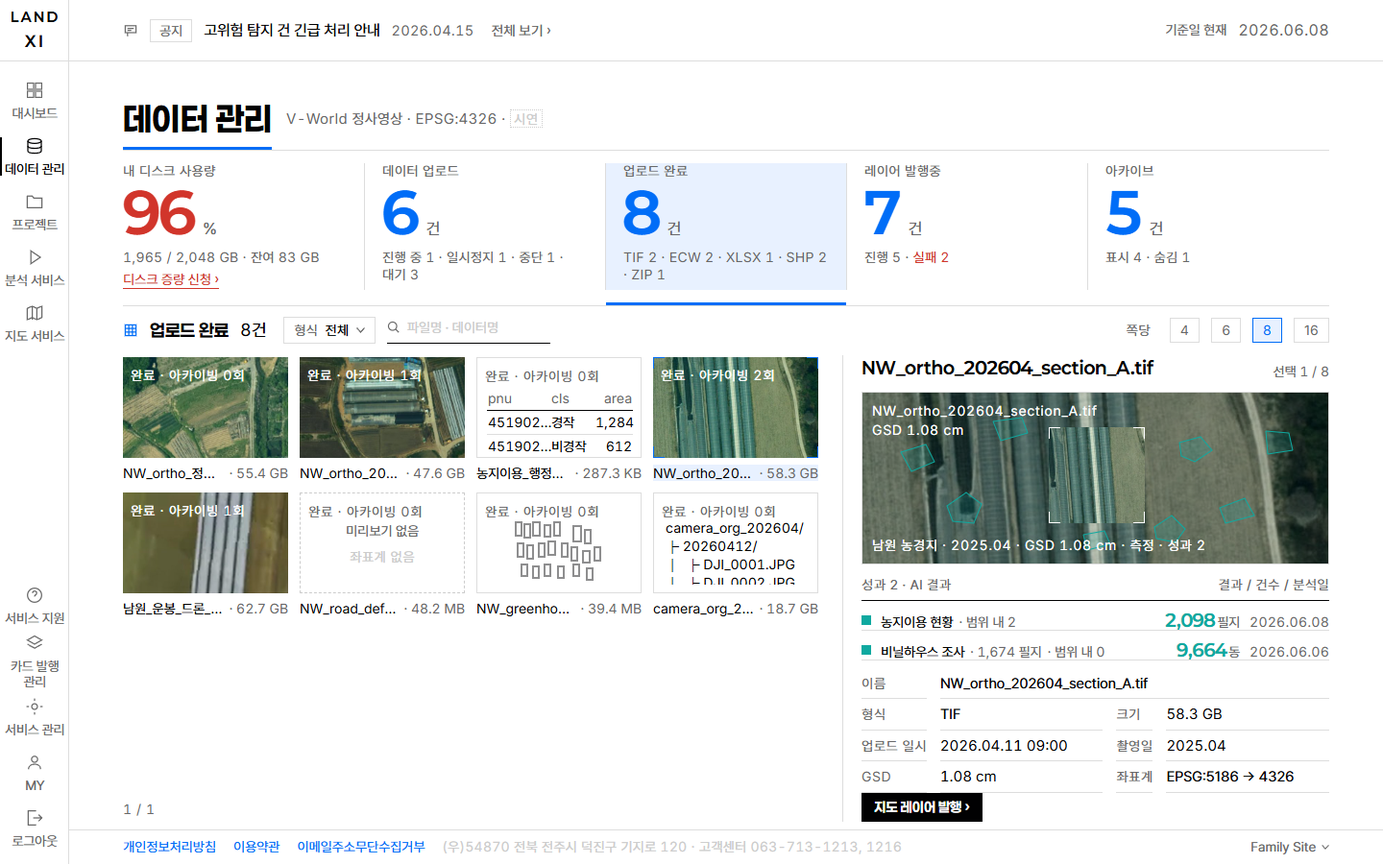
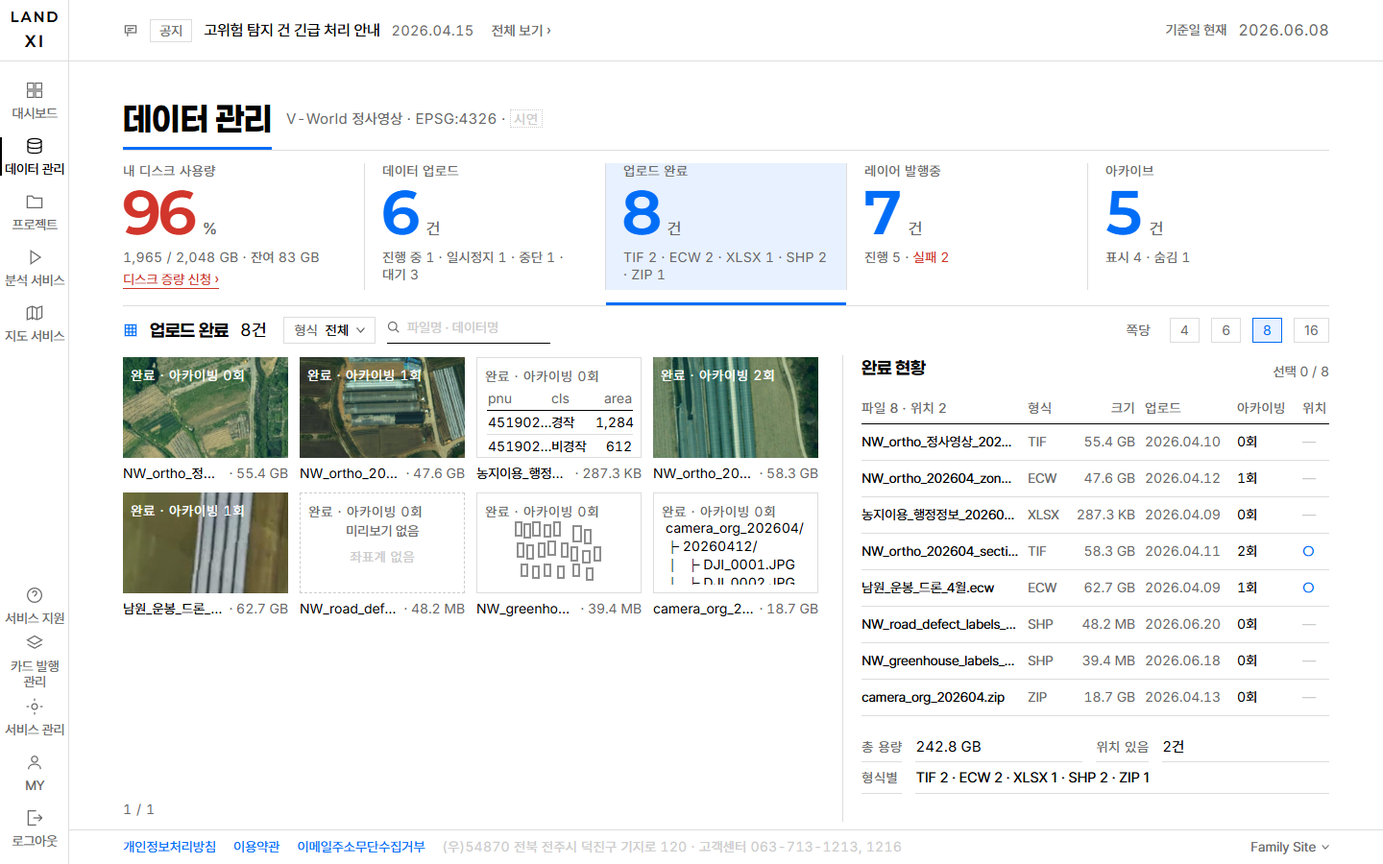
feat(dataset): 3차 피드백 — 우 패널 통일(4단계 현황판 / 상세 + ‹ 현황) · 쪽당 16 반응 수정
- 선택 없음 = 단계 현황판(4단계 같은 문법): 제목 진행·완료·발행·보관 현황 · 헤더 · 한 줄 = 한 건 38px 헤어라인(클릭 = 그 타일 선택, 다른 쪽이면 이동) · 아래 요약 kv
  업로드 이름·상태·막대%·크기·잔여 / 완료 이름·형식·크기·업로드·아카이빙·위치○ / 발행중 이름·4눈금·상태(실패 warn)·진행률·크기 / 아카이브 이름·유형·표시·발행 v·크기
- 선택 = 상세 그대로 + 헤더 `‹ 현황`(현황판으로) · 선택 타일 재클릭·Esc 도 같다 · 점선 액자 빈 상태·아카이브 유형 dl 삭제
- 쪽당 16 버그(클라이언트 "반응이 안 되네"): 높이 상한만 두어 8건·큰 화면에서 8 과 같아 보였다 → 타일 높이 = 그리드 ÷ 4 고정 + 폭도 1.63:1 로(1440: 172×105 → 117×72)
- 마스터 B5-DataMgmt 12.3(완료 현황판) + 렌더 · NOTES §13.9 · parity §11.7 · e2e 18(단계 4 × 현황판·줄 클릭·‹ 현황·쪽당 16) · shoot b5-01..18

Claude-Session: https://claude.ai/code/session_01WM9MJXSpdbCfwY8af3obk9

Changed region(s): [[0.625, 0.4044, 0.9688, 0.9644]]

diff --git a/design-canvas/v2/B5-DataMgmt.dc.html b/design-canvas/v2/B5-DataMgmt.dc.html
@@ -16,7 +16,7 @@
 body{margin:0;background:#FFFFFF;color:#010102;font-family:'Pretendard','Paperlogy',system-ui,sans-serif;font-weight:400;font-size:18px;line-height:1.6;-webkit-font-smoothing:antialiased}
 .d{font-family:'Paperlogy','Pretendard',system-ui,sans-serif;font-weight:700;letter-spacing:-.01em}
 .n{font-family:'Inter','Pretendard',system-ui,sans-serif;font-weight:400;font-variant-numeric:tabular-nums;font-feature-settings:'tnum' 1}
-/* B5-DataMgmt 12.2 — 발주 2차(2026-08-27): 쪽당 4 · 6 · 8 · 16 + 페이저 · 완료 선택 = 실제 위치(판 180, 청록 결과) + 성과 2 + 기본 정보 4행 · 액션 826. 12.1: 판 220 · 정보 640 · 액션 812 · XLSX 3열. 대시보드 골격 + 단계 뷰(좌 타일 그리드 8 = 4열 / 우 패널). */
+/* B5-DataMgmt 12.3 — 발주 3차(2026-08-27) "통일성": 우 패널은 4단계 같은 문법 — 선택 없음 = 단계 현황판(한 줄 = 한 건 38px 헤어라인 + 요약 kv), 선택 = 그 건의 상세 + `‹ 현황`. 이 판 = 완료 단계 · 선택 없음 = `완료 현황`(이름 · 형식 · 크기 · 업로드 · 아카이빙 · 위치) + 총 용량 · 위치 있음 · 형식별. 선택 상세(판 180 + 성과 2 + dl)는 12.2 와 같다(그림 shots/proto-ds/b5-07). 12.2: 쪽당 4 · 6 · 8 · 16 + 페이저 · 완료 선택 = 실제 위치(판 180, 청록 결과) + 성과 2. 대시보드 골격 + 단계 뷰(좌 타일 그리드 8 = 4열 / 우 패널). */
 .ab{position:absolute}
 .k{position:absolute;top:170px;height:132px;padding:0 18px;border-left:1px solid #DDDDDD}
 .k .kl{display:block;font-size:14px;letter-spacing:.04em;color:#686868;white-space:nowrap;line-height:17px}
@@ -53,6 +53,13 @@ body{margin:0;background:#FFFFFF;color:#010102;font-family:'Pretendard','Paperlo
 .rs .nv{white-space:nowrap}.rs .nv b{font-family:'Paperlogy';font-weight:700;font-size:18px;color:#0FA9A0;letter-spacing:-.01em}.rs .nv span{color:#686868;margin-left:2px}
 .rs .at{color:#686868;letter-spacing:.02em}
 .ph{position:absolute;left:897px;width:487px;height:28px;display:flex;justify-content:space-between;align-items:baseline;border-bottom:1px solid #010102;font-size:14px;letter-spacing:.04em;color:#686868}
+/* 현황판 — 4단계 공용 문법. 한 줄 = 한 건 38px 헤어라인. 완료 열: 이름 · 형식 · 크기 · 업로드 · 아카이빙 · 위치(○ = 도엽 실측 위치) */
+.pbh,.pb{position:absolute;left:897px;width:487px;display:grid;grid-template-columns:minmax(0,1fr) 40px 62px 86px 58px 28px;column-gap:10px;align-items:center;font-size:14px;letter-spacing:-.01em;color:#010102}
+.pbh{height:28px;align-items:baseline;border-bottom:1px solid #010102;letter-spacing:.04em;color:#686868;white-space:nowrap}
+.pb{height:38px;border-bottom:1px solid #DDDDDD}
+.pb>*{min-width:0;white-space:nowrap;overflow:hidden;text-overflow:ellipsis}
+.pb .stw,.pb .dt{color:#686868}.pb .rt,.pbh .rt{text-align:right}.pb .rt{color:#686868}
+.pb .loc{color:#CCCCCC}.pb .loc.on{color:#006DF7}
 .rl{position:relative;width:72px;height:58px;display:flex;flex-direction:column;align-items:center;justify-content:center;gap:6px;color:#686868}
 .rl div{font-size:14px;line-height:1.15;letter-spacing:-.02em;text-align:center;white-space:pre-line}
 </style></helmet>
@@ -119,7 +126,7 @@ body{margin:0;background:#FFFFFF;color:#010102;font-family:'Pretendard','Paperlo
 <div class="tile" style="left:312px;top:372px"><div class="th"><img src="tile-done-ecw.jpg"><span class="word n">완료 · 아카이빙 1회</span></div><p class="cap n"><span class="nm">NW_ortho_202604_zone_X.ecw</span><span class="mt">· 47.6 GB</span></p></div>
 <div class="tile" style="left:496px;top:372px"><div class="th box"><span class="word n">완료 · 아카이빙 0회</span>
   <table class="n" style="position:absolute;left:10px;top:30px;right:10px;border-collapse:collapse;font-size:14px;line-height:22px;white-space:nowrap;table-layout:fixed;width:152px"><tr style="color:#686868;border-bottom:1px solid #010102"><td style="width:66px">pnu</td><td style="width:46px">cls</td><td style="text-align:right">area</td></tr><tr style="border-bottom:1px solid #DDDDDD"><td>451902…</td><td>경작</td><td style="text-align:right">1,284</td></tr><tr><td>451902…</td><td>비경작</td><td style="text-align:right">612</td></tr></table></div><p class="cap n"><span class="nm">농지이용_행정정보_202604.xlsx</span><span class="mt">· 287.3 KB</span></p></div>
-<div class="tile" style="left:680px;top:372px"><div class="th" style="outline:1px solid #006DF7;outline-offset:-1px"><img src="tile-gh-clean.jpg"><span class="word n">완료 · 아카이빙 2회</span><i class="bk tl"></i><i class="bk tr"></i><i class="bk bl"></i><i class="bk br"></i></div><p class="cap n" style="background:#E8F1FF"><span class="nm">NW_ortho_202604_section_A.tif</span><span class="mt">· 58.3 GB</span></p></div>
+<div class="tile" style="left:680px;top:372px"><div class="th"><img src="tile-gh-clean.jpg"><span class="word n">완료 · 아카이빙 2회</span></div><p class="cap n"><span class="nm">NW_ortho_202604_section_A.tif</span><span class="mt">· 58.3 GB</span></p></div>
 <div class="tile" style="left:128px;top:513px"><div class="th"><img src="tile-done-2.jpg"><span class="word n">완료 · 아카이빙 1회</span></div><p class="cap n"><span class="nm">남원_운봉_드론_4월.ecw</span><span class="mt">· 62.7 GB</span></p></div>
 <div class="tile" style="left:312px;top:513px"><div class="th dash" style="display:flex;flex-direction:column;align-items:center;justify-content:center;gap:5px;padding:22px 10px 20px"><span class="word n">완료 · 아카이빙 0회</span><span style="font-size:14px;color:#686868">미리보기 없음</span><span class="n" style="font-size:14px;color:#CCCCCC;letter-spacing:.04em">좌표계 없음</span></div><p class="cap n"><span class="nm">NW_road_defect_labels_202604.shp</span><span class="mt">· 48.2 MB</span></p></div>
 <div class="tile" style="left:496px;top:513px"><div class="th box"><span class="word n">완료 · 아카이빙 0회</span>
@@ -135,29 +142,24 @@ body{margin:0;background:#FFFFFF;color:#010102;font-family:'Pretendard','Paperlo
 <!-- 세로 헤어라인 -->
 <div class="ab" style="left:877px;top:370px;width:1px;height:486px;background:#DDDDDD"></div>
 
-<!-- ── 우 패널 — 선택 타일: 실제 위치(판 180 = V-World + 도엽 타일 + 실측 브래킷 + 청록 결과) + 성과 2(results.js 실측치) + 기본 정보 4행 + 액션. 실화면은 아카이빙·등록자·범위 행이 더 있고 스크롤 ── -->
-<div class="ab d" style="left:897px;top:370px;width:400px;font-size:18px;line-height:26px;white-space:nowrap;overflow:hidden;text-overflow:ellipsis">NW_ortho_202604_section_A.tif</div>
-<div class="ab n" style="left:1320px;top:376px;width:64px;text-align:right;font-size:14px;color:#686868">선택 1 / 8</div>
-<div class="ab" style="left:897px;top:408px;width:487px;height:180px;background:#010102;border:1px solid #DDDDDD;overflow:hidden">
-  <img src="ds-ortho2.jpg" style="position:absolute;left:0;top:0;width:100%;height:100%;object-fit:cover;filter:saturate(.5) contrast(1.1) brightness(.85)">
-  <img src="tile-gh-clean.jpg" style="position:absolute;left:194px;top:36px;width:100px;height:100px;object-fit:cover;filter:saturate(.7)">
-  <!-- 청록 = AI 결과(농지이용 · 비닐하우스 폴리곤) — 도엽을 가운데 두고 3배 범위 -->
-  <svg width="487" height="180" viewBox="0 0 487 180" style="position:absolute;left:0;top:0" fill="#0FA9A0" fill-opacity=".18" stroke="#0FA9A0" stroke-width="1"><path d="M40 62l26-8 9 18-24 10z"/><path d="M88 118l20-14 16 12-8 20-22-2z"/><path d="M136 30l30-4 6 16-28 8z"/><path d="M330 52l22-6 12 14-18 12-14-6z"/><path d="M372 120l26-10 10 18-30 8z"/><path d="M420 40l24 2 4 18-26 4z"/><path d="M304 140l18-12 14 14-10 14-20-4z"/><path d="M230 148l22-4 6 14-24 6z"/></svg>
-  <div class="ab" style="left:194px;top:36px;width:100px;height:100px"><i class="bk tl bkw"></i><i class="bk tr bkw"></i><i class="bk bl bkw"></i><i class="bk br bkw"></i></div>
-  <div class="n" style="position:absolute;left:10px;top:9px;font-size:14px;letter-spacing:.05em;color:#fff;line-height:1.4">NW_ortho_202604_section_A.tif<br>GSD 1.08 cm</div>
-  <div class="n" style="position:absolute;left:10px;bottom:8px;font-size:14px;letter-spacing:.05em;color:#fff">남원 농경지 · 2025.04 · GSD 1.08 cm · 측정 · 성과 2</div>
-</div>
-<!-- 성과 2 — results.js: 농지이용 2,098 필지(2026.06.08) · 비닐하우스 9,664 동 / 1,674 필지(2026.06.06). 범위 안 건수는 GeoJSON 을 세어 적는다 -->
-<div class="ph" style="top:598px"><span>성과 2 · AI 결과</span><span>결과 / 건수 / 분석일</span></div>
-<div class="rs" style="top:626px"><span class="sw"></span><span class="nm">농지이용 현황<small class="n">· 범위 내 2</small></span><span class="nv n"><b>2,098</b><span>필지</span></span><span class="at n">2026.06.08</span></div>
-<div class="rs" style="top:657px"><span class="sw"></span><span class="nm">비닐하우스 조사<small class="n">· 1,674 필지</small><small class="n">· 범위 내 0</small></span><span class="nv n"><b>9,664</b><span>동</span></span><span class="at n">2026.06.06</span></div>
-<dl class="info" style="top:696px;margin:0">
-  <dt class="w">이름</dt><dd class="w">NW_ortho_202604_section_A.tif</dd>
-  <dt>형식</dt><dd>TIF</dd><dt>크기</dt><dd class="n">58.3 GB</dd>
-  <dt>업로드 일시</dt><dd class="n">2026.04.11 09:00</dd><dt>촬영일</dt><dd class="n">2025.04</dd>
-  <dt>GSD</dt><dd class="n">1.08 cm</dd><dt>좌표계</dt><dd>EPSG:5186 → 4326</dd>
+<!-- ── 우 패널 — 선택 없음 = 완료 현황판(4단계 공용 문법 · B5-DataMgmt-Upload 의 진행 현황판과 같은 줄 높이 38 · 헤더 · 요약 kv).
+     한 줄 = 한 건: 이름 · 형식 · 크기 · 업로드 · 아카이빙 · 위치(○ = imagery.js 도엽 실측 위치 d4 · d5). 줄 클릭 = 그 타일 선택 → 상세(판 180 + 성과 2 + dl + `지도 레이어 발행 ›`, 헤더에 `‹ 현황`) — 12.2 판과 같다 ── -->
+<div class="ab d" style="left:897px;top:370px;width:400px;font-size:18px;line-height:26px">완료 현황</div>
+<div class="ab n" style="left:1320px;top:376px;width:64px;text-align:right;font-size:14px;color:#686868">선택 0 / 8</div>
+<div class="pbh" style="top:414px"><span>파일 8 · 위치 2</span><span>형식</span><span class="rt">크기</span><span>업로드</span><span>아카이빙</span><span>위치</span></div>
+<div class="pb" style="top:442px"><span class="nm">NW_ortho_정사영상_202604_section_C_v3.tif</span><span class="stw">TIF</span><span class="rt n">55.4 GB</span><span class="dt n">2026.04.10</span><span class="n">0회</span><span class="loc n">—</span></div>
+<div class="pb" style="top:480px"><span class="nm">NW_ortho_202604_zone_X.ecw</span><span class="stw">ECW</span><span class="rt n">47.6 GB</span><span class="dt n">2026.04.12</span><span class="n">1회</span><span class="loc n">—</span></div>
+<div class="pb" style="top:518px"><span class="nm">농지이용_행정정보_202604.xlsx</span><span class="stw">XLSX</span><span class="rt n">287.3 KB</span><span class="dt n">2026.04.09</span><span class="n">0회</span><span class="loc n">—</span></div>
+<div class="pb" style="top:556px"><span class="nm">NW_ortho_202604_section_A.tif</span><span class="stw">TIF</span><span class="rt n">58.3 GB</span><span class="dt n">2026.04.11</span><span class="n">2회</span><span class="loc on n">○</span></div>
+<div class="pb" style="top:594px"><span class="nm">남원_운봉_드론_4월.ecw</span><span class="stw">ECW</span><span class="rt n">62.7 GB</span><span class="dt n">2026.04.09</span><span class="n">1회</span><span class="loc on n">○</span></div>
+<div class="pb" style="top:632px"><span class="nm">NW_road_defect_labels_202604.shp</span><span class="stw">SHP</span><span class="rt n">48.2 MB</span><span class="dt n">2026.06.20</span><span class="n">0회</span><span class="loc n">—</span></div>
+<div class="pb" style="top:670px"><span class="nm">NW_greenhouse_labels_202603.shp</span><span class="stw">SHP</span><span class="rt n">39.4 MB</span><span class="dt n">2026.06.18</span><span class="n">0회</span><span class="loc n">—</span></div>
+<div class="pb" style="top:708px"><span class="nm">camera_org_202604.zip</span><span class="stw">ZIP</span><span class="rt n">18.7 GB</span><span class="dt n">2026.04.13</span><span class="n">0회</span><span class="loc n">—</span></div>
+<!-- 요약 kv — 총 용량(8건 합) · 위치 있음(도엽 2) · 형식별(KPI 카드의 분해와 같은 수) -->
+<dl class="info" style="top:762px;margin:0">
+  <dt>총 용량</dt><dd class="n">242.8 GB</dd><dt>위치 있음</dt><dd class="n">2건</dd>
+  <dt class="w">형식별</dt><dd class="w">TIF 2 · ECW 2 · XLSX 1 · SHP 2 · ZIP 1</dd>
 </dl>
-<div class="ab" style="left:897px;top:826px;display:flex;gap:1px"><span class="act pri">지도 레이어 발행 ›</span></div>
 
 <!-- ── 푸터 36 ── -->
 <div class="ab" style="left:72px;top:864px;width:1368px;height:36px;border-top:1px solid #DDDDDD;display:flex;align-items:center;gap:18px;padding:0 56px;font-size:14px;color:#686868;white-space:nowrap">

diff --git a/landxi/proto/dataset.js b/landxi/proto/dataset.js
@@ -479,9 +479,7 @@ function editGeo(a) {
 $('#grid').addEventListener('click', (ev) => {
   const th = ev.target.closest('[data-open]'); if (!th) return;
   const id = th.dataset.open;
-  S.sel = S.sel === id ? null : id;
-  S.mode = S.sel ? 'tile' : 'none'; S.more = false;
-  renderPanel(); renderSide();
+  if (S.sel === id) backToBoard(); else selectTile(id);   // 선택 타일을 다시 누르면 현황판으로
 });
 
 /* ══ 우 패널 — 선택 타일을 펼친다: 판(지도/그림) + 기본 정보 + 액션 ═══════ */
@@ -502,16 +500,65 @@ function showFig(html) { $('#plate-wrap').hidden = true; const f = $('#fig-wrap'
 function showPlate() { $('#fig-wrap').hidden = true; $('#plate-wrap').hidden = false; }
 function hideFrames() { $('#plate-wrap').hidden = true; const f = $('#fig-wrap'); f.hidden = true; f.innerHTML = ''; }
 
-/* ── 진행 현황판(업로드 · 선택 없음) — 한 줄 = 한 건. 이름 · 상태어 · 막대 % · 크기 · 잔여. 발주 2차. ── */
+/* ── 현황판(선택 없음) — 4단계 공용 문법(발주 3차 "통일성"): 한 줄 = 한 건, 헤어라인, 줄 = 그 타일 선택. 아래 단계 요약 kv.
+   업로드: 이름 · 상태어 · 막대 % · 크기 · 잔여 / 완료: 이름 · 형식 · 크기 · 업로드 일시 · 아카이빙 · 위치 /
+   발행중: 이름 · 4눈금 · 상태어(실패 warn + 짧은 사유) · 진행률 · 크기 / 아카이브: 이름 · 유형 · 표시/숨김 · 발행 v · 크기. ── */
+const BOARD_TITLE = { upload: '진행 현황', manage: '완료 현황', publishing: '발행 현황', archive: '보관 현황' };
 const remain = (u) => fmtBytes(bytesOf(u.size) * (1 - u.pct / 100));
+const sumBytes = (rows) => fmtBytes(rows.reduce((s, r) => s + bytesOf(r.size), 0));
+const bh = (cells) => `<div class="pbh">${cells.map((c) => `<span class="lb${/^(크기|잔여|진행률|발행)$/.test(c) ? ' rt' : ''}">${esc(c)}</span>`).join('')}</div>`;
+const bRow = (r, st, cells) => `<div class="pb" data-id="${r.id}"${st ? ` data-st="${st}"` : ''} role="button" tabindex="0"${selAttr(r.id)}>${cells}</div>`;
+const bName = (name) => `<span class="nm" title="${esc(name)}">${esc(name)}</span>`;
 function boardHtml() {
-  const c = by(S.ups, (u) => u.st);
-  const head = `<div class="pbh"><span class="lb">파일 ${S.ups.length} · 진행 중 ${c.run || 0}</span><span class="lb">상태</span><span class="lb">진행률</span><span class="lb sz">크기</span><span class="lb rm">잔여</span></div>`;
-  return head + S.ups.map((u) => `<div class="pb" data-id="${u.id}" data-st="${u.st}">
-    <span class="nm" title="${esc(u.file)}">${esc(u.file)}</span><span class="stw">${esc(UP_ST[u.st])}</span>
-    <span class="bar" style="--pct:${u.pct}%"><i></i><b class="n" data-ppct>${u.pct}%</b></span>
-    <span class="sz n">${esc(u.size)}</span><span class="rm n" data-prem>${remain(u)}</span></div>`).join('');
+  if (S.tab === 'upload') {
+    const c = by(S.ups, (u) => u.st);
+    return bh([`파일 ${S.ups.length} · 진행 중 ${c.run || 0}`, '상태', '진행률', '크기', '잔여'])
+      + S.ups.map((u) => bRow(u, u.st, `${bName(u.file)}<span class="stw">${esc(UP_ST[u.st])}</span>
+        <span class="bar" style="--pct:${u.pct}%"><i></i><b class="n" data-ppct>${u.pct}%</b></span>
+        <span class="rt n">${esc(u.size)}</span><span class="rt n" data-prem>${remain(u)}</span>`)).join('');
+  }
+  if (S.tab === 'manage') {
+    return bh([`파일 ${S.done.length} · 위치 ${S.done.filter(imFor).length}`, '형식', '크기', '업로드', '아카이빙', '위치'])
+      + S.done.map((d) => bRow(d, '', `${bName(d.file)}<span class="stw">${esc(d.fmt)}</span><span class="rt n">${esc(d.size)}</span>
+        <span class="n dim2" title="${esc(d.at)}">${date(d.at)}</span><span class="n">${d.arch}회</span><span class="n loc${imFor(d) ? ' on' : ''}">${imFor(d) ? '○' : '—'}</span>`)).join('');
+  }
+  if (S.tab === 'publishing') {
+    const c = by(S.pubs, (p) => p.st);
+    return bh([`파일 ${S.pubs.length} · 진행 ${c.run || 0} · 실패 ${c.fail || 0}`, '단계', '상태', '진행률', '크기'])
+      + S.pubs.map((p) => { const fail = p.st === 'fail'; return bRow(p, p.st, `${bName(p.file)}${ticks(p, true)}
+        <span class="stw${fail ? ' warn' : ''}">${fail ? `실패 · ${esc(p.short || '')}` : `${p.step}/4 ${esc(PUB_STEPS[p.step - 1])}`}</span>
+        <span class="rt n">${pubPct(p)}%</span><span class="rt n">${esc(p.size)}</span>`); }).join('');
+  }
+  const c = by(S.arch, (a) => (a.hidden ? 'h' : 'v'));
+  return bh([`자산 ${S.arch.length} · 표시 ${c.v || 0} · 숨김 ${c.h || 0}`, '유형', '표시', '발행', '크기'])
+    + S.arch.map((a) => { const log = PUBLISH_LOG[a.id] || []; return bRow(a, a.hidden ? 'hide' : 'show', `${bName(a.name)}<span class="stw">${esc(a.kind)}</span>
+      <span class="stw vis">${a.hidden ? '숨김' : '표시'}</span><span class="rt n ver">${log.length ? esc(log[0][0]) : '—'}</span><span class="rt n">${esc(a.size)}</span>`); }).join('');
 }
+/** 현황판 아래 단계 요약 kv — 업로드: 디스크 · 허용 형식 · 한도 / 완료: 총 용량 · 형식별 / 발행중: 진행 · 실패 / 아카이브: 표시 · 숨김 · 총 용량. */
+function boardFoot() {
+  if (S.tab === 'upload') return dl([['디스크', `${gb(DISK.used)} / ${gb(DISK.total)} GB`], ['잔여', `${gb(DISK.free)} GB`], ['허용 형식', ACCEPT_EXT.map((x) => x.slice(1).toUpperCase()).join(' · '), 'wide'], ['한도', '1 TB']]);
+  if (S.tab === 'manage') { const c = by(S.done, fmtOf); return dl([['총 용량', sumBytes(S.done)], ['위치 있음', `${S.done.filter(imFor).length}건`], ['형식별', Object.entries(c).map(([k, n]) => `${k} ${n}`).join(' · ') || '—', 'wide']]); }
+  if (S.tab === 'publishing') { const c = by(S.pubs, (p) => p.st); return dl([['진행', `${c.run || 0}건`], ['실패', c.fail ? `<span class="warn">${c.fail}건</span>` : '0건'], ['총 용량', sumBytes(S.pubs)], ['단계', '4']]); }
+  const c = by(S.arch, (a) => (a.hidden ? 'h' : 'v')), k = by(S.arch, (a) => a.kind);
+  return dl([['표시', `${c.v || 0}건`], ['숨김', `${c.h || 0}건`], ['총 용량', sumBytes(S.arch)], ['유형별', Object.entries(k).map(([n, v]) => `${n} ${v}`).join(' · ') || '—', 'wide']]);
+}
+/** 현재 단계의 목록(필터 · 검색 적용). 현황판 줄 → 타일 선택 시 그 타일이 있는 쪽으로 간다. */
+function filtered() {
+  if (S.tab === 'upload') return S.ups.filter((u) => passFmt(u) && hit(u));
+  if (S.tab === 'manage') return S.done.filter((d) => passFmt(d) && hit(d));
+  if (S.tab === 'publishing') return S.pubs.filter((p) => passFmt(p) && hit(p));
+  return S.arch.filter((a) => passKind(a) && hit(a));
+}
+function selectTile(id) {
+  S.sel = id; S.mode = 'tile'; S.more = false;
+  const i = filtered().findIndex((r) => r.id === id);
+  if (i >= 0) S.page = Math.floor(i / Math.max(1, S.pp - (S.tab === 'upload' ? 1 : 0))) + 1;
+  renderPanel(); renderSide();
+}
+function backToBoard() { S.sel = null; S.mode = 'none'; S.more = false; renderPanel(); renderSide(); }
+$('#side-back').addEventListener('click', backToBoard);
+$('#side').addEventListener('click', (ev) => { const r = ev.target.closest('.pb[data-id]'); if (r) selectTile(r.dataset.id); });
+$('#side').addEventListener('keydown', (ev) => { const r = ev.target.closest('.pb[data-id]'); if (r && (ev.key === 'Enter' || ev.key === ' ')) { ev.preventDefault(); selectTile(r.dataset.id); } });
 
 /* ── 성과 — 이 자산에 닿은 실제 AI 결과(results.js). 판 위에 청록으로 서고, 범위 안 건수는 세어서 적는다. ── */
 const resultsOf = (id) => (RESULT_OF[id] || []).map((rid) => resultRow(RESULT_BY_ID[rid])).filter(Boolean);
@@ -584,23 +631,15 @@ function renderSide() {
   if (!row) { S.sel = null; S.mode = 'none'; }
   side.dataset.mode = S.mode;
   if (side.dataset.sel !== String(S.sel)) { side.dataset.sel = String(S.sel); $('#side-body').scrollTop = 0; }   // 선택이 바뀌면 맨 위부터
-  $('#side-h').textContent = row ? (row.name || row.file) : name;
+  $('#side-h').textContent = row ? (row.name || row.file) : BOARD_TITLE[S.tab];
+  $('#side-h').title = row ? (row.name || row.file) : `${name} · ${BOARD_TITLE[S.tab]}`;
   $('#side-m').textContent = row ? `선택 1 / ${total}` : `선택 0 / ${total}`;
+  $('#side-back').hidden = !row;   // `‹ 현황` — 상세에서 현황판으로. 4단계 같다.
   info.innerHTML = ''; acts.innerHTML = '';
   if (!row) {
-    // 빈 상태. 업로드 = 카드별 진행 현황판(발주 2차) · 그 외 = 단계의 건수.
-    if (S.tab === 'upload') {
-      hideFrames();
-      $('#side-h').textContent = '진행 현황';
-      info.innerHTML = boardHtml() + dl([['디스크', `${gb(DISK.used)} / ${gb(DISK.total)} GB`], ['잔여', `${gb(DISK.free)} GB`], ['허용 형식', ACCEPT_EXT.map((x) => x.slice(1).toUpperCase()).join(' · '), 'wide'], ['한도', '1 TB']]);
-      applyMapMode('none');
-      return;
-    }
-    showFig(`<div class="fig fig--none"><b class="big n">${total}</b><span class="t1">${esc(name)} · 선택 없음</span><span class="t2">타일 선택 → ${S.tab === 'archive' ? '판 · 사용 현황 · 발행 이력 · 메모' : '지도 · 기본 정보 · 액션'}</span></div>`);
-    if (S.tab === 'archive') {
-      const c = by(S.arch, (a) => a.kind), last = S.arch.map((a) => a.at).sort().pop() || '—';
-      info.innerHTML = dl([['정사영상', `${c['정사영상'] || 0}건`], ['공간정보', `${c['공간정보'] || 0}건`], ['이미지셋', `${c['이미지셋'] || 0}건`], ['최근 등록', last]]);
-    }
+    // 선택 없음 = 단계 현황판(4단계 같은 문법) + 단계 요약 kv. 판·액자는 닫는다. 0건이면 빈 줄 하나.
+    hideFrames();
+    info.innerHTML = `<div class="board" data-k="${S.tab}">${boardHtml()}${total ? '' : `<p class="pb-empty n">0건</p>`}</div>` + boardFoot();
     applyMapMode('none');
     return;
   }

diff --git a/landxi/proto/dataset.css b/landxi/proto/dataset.css
@@ -146,6 +146,11 @@ body[data-pp="4"]{ --cols:2; --rows:2; } body[data-pp="6"]{ --cols:3; --rows:2; 
 .tile:hover{ transform:translateY(-4px); }
 /* 타일 높이 상한 = (그리드 높이 − 행 간격 − 캡션 24 × 행 − 여백) / 행 */
 .th{ position:relative; width:100%; aspect-ratio:240/147; max-height:calc((100cqh - 8px - (var(--rows) - 1) * var(--gap) - var(--rows) * 24px) / var(--rows)); min-height:64px; overflow:hidden; background:#fff; display:block; cursor:pointer; }
+/* 쪽당 16 = 4×4 가 항상 한 화면 — 타일 높이는 그리드 높이 ÷ 4 로 **고정**하고 폭도 그 비율(1.63:1)로 따라 준다.
+   (이전: 높이 상한만 두어 8건인 단계·큰 화면에서는 8 과 같아 보였다 — 클라이언트 "16 은 반응이 안 되네".) */
+body[data-pp="16"]{ --th16:calc((100cqh - 8px - 3 * var(--gap) - 4 * 24px) / 4); }
+body[data-pp="16"] .tiles{ grid-template-columns:repeat(4, minmax(0, calc(var(--th16) * 240 / 147))); justify-content:start; }
+body[data-pp="16"] .th{ aspect-ratio:auto; height:var(--th16); max-height:none; min-height:56px; }
 .th img{ position:absolute; left:0; top:0; width:100%; height:100%; object-fit:cover; display:block; }
 .th canvas{ position:absolute; left:0; top:0; width:100%; height:100%; display:block; }
 .th--box{ border:1px solid var(--line); }
@@ -315,23 +320,43 @@ body[data-pp="8"] .th .tagb,body[data-pp="16"] .th .tagb{ display:none; }
 .br:hover::before,.br:hover::after{ width:100%; height:100%; }
 .fill{ width:120px; height:38px; background:var(--ink); color:#fff; font-size:16px; display:inline-flex; align-items:center; justify-content:center; transition:transform var(--hov) var(--hove); }
 .fill:hover{ transform:translateY(-2px); }
-/* 진행 현황판(업로드 · 선택 없음) — 한 줄 = 한 건: 이름 · 상태어 · 막대 % · 크기 · 잔여. 문장 0. */
-.pbh,.pb{ display:grid; grid-template-columns:minmax(0,1fr) 58px 112px 62px 62px; column-gap:10px; align-items:center; }
+/* 현황판(선택 없음 · 4단계 공용 문법) — 한 줄 = 한 건 = 38px 헤어라인, 줄 클릭 = 그 타일 선택. 문장 0.
+   열은 단계마다 다르고(아래 data-k) 줄 높이 · 글자 · 헤더 · 호버 틴트는 같다. */
+.pbh,.pb{ display:grid; column-gap:10px; align-items:center; }
+.board[data-k="upload"] .pbh,.board[data-k="upload"] .pb{ grid-template-columns:minmax(0,1fr) 58px 112px 62px 62px; }
+.board[data-k="manage"] .pbh,.board[data-k="manage"] .pb{ grid-template-columns:minmax(0,1fr) 40px 62px 86px 58px 28px; }
+.pbh > *{ min-width:0; white-space:nowrap; overflow:hidden; text-overflow:ellipsis; }
+.board[data-k="publishing"] .pbh,.board[data-k="publishing"] .pb{ grid-template-columns:minmax(0,1fr) 52px 122px 44px 62px; }
+.board[data-k="archive"] .pbh,.board[data-k="archive"] .pb{ grid-template-columns:minmax(0,1fr) 56px 36px 32px 62px; }
 .pbh{ margin-top:16px; padding-bottom:6px; border-bottom:1px solid var(--ink); }
-.pbh .sz,.pbh .rm,.pb .sz,.pb .rm{ text-align:right; }
-.pb{ padding:8px 0 7px; border-bottom:1px solid var(--line); font-size:14px; letter-spacing:-.01em; color:var(--ink); transition:background var(--hov) var(--hove), transform var(--hov) var(--hove); }
+.pbh .rt,.pb .rt{ text-align:right; }
+.pb{ height:38px; padding:0; border-bottom:1px solid var(--line); font-size:14px; letter-spacing:-.01em; color:var(--ink); cursor:pointer; outline-offset:-1px;
+  transition:background var(--hov) var(--hove), transform var(--hov) var(--hove); }
 .pb:hover{ background:var(--t1); transform:translateX(4px); }
-.pb .nm{ min-width:0; white-space:nowrap; overflow:hidden; text-overflow:ellipsis; }
-.pb .stw{ color:var(--grey); white-space:nowrap; }
+.pb[aria-current="true"]{ background:var(--t1); }   /* T3 선택 — 타일 캡션과 같은 틴트 */
+.pb > *{ min-width:0; white-space:nowrap; overflow:hidden; text-overflow:ellipsis; }
+.pb .nm{ color:var(--ink); }
+.pb .stw{ color:var(--grey); }
+.pb .stw.warn{ color:var(--warn); }
+.pb .dim2{ color:var(--grey); letter-spacing:.01em; }
+.pb .loc{ color:var(--grey-3); } .pb .loc.on{ color:var(--accent); }
+.pb .ver{ color:var(--accent); }
 .pb[data-st="run"] .stw{ color:var(--accent); }
-.pb .bar{ position:relative; height:12px; margin-right:34px; border:1px solid var(--line); background:#fff; }
+.pb[data-st="hide"] .nm,.pb[data-st="hide"] .vis{ color:var(--grey-3); }
+.pb .bar{ position:relative; height:12px; margin-right:34px; border:1px solid var(--line); background:#fff; overflow:visible; }
 .pb .bar i{ position:absolute; left:0; top:0; bottom:0; width:var(--pct); background:var(--grey-3); transition:width 1400ms linear; }
 .pb[data-st="run"] .bar i{ background:var(--accent); }
 .pb .bar b{ position:absolute; left:calc(100% + 6px); top:-1px; font-weight:400; font-size:14px; line-height:12px; color:var(--grey); white-space:nowrap; }
 .pb[data-st="run"] .bar b{ color:var(--accent); }
-.pb .sz,.pb .rm{ white-space:nowrap; color:var(--grey); }
-.pb[data-st="run"] .rm{ color:var(--ink); }
+.pb .rt{ color:var(--grey); }
+.pb[data-st="run"] [data-prem]{ color:var(--ink); }
 .pb[data-st="wait"] .nm,.pb[data-st="stop"] .nm{ color:var(--grey); }
+.pb .ticks{ position:static; gap:3px; overflow:visible; }
+.pb .ticks i{ width:10px; height:10px; }
+.pb-empty{ margin:0; height:38px; line-height:38px; font-size:14px; color:var(--grey); border-bottom:1px solid var(--line); }
+/* `‹ 현황` — 상세 헤더의 되돌아가기. 4단계 같다. */
+#side-back{ font-size:14px; letter-spacing:.02em; color:var(--accent); white-space:nowrap; flex:none; line-height:26px; transition:transform var(--hov) var(--hove); }
+#side-back:hover{ transform:translateX(-4px); }
 /* 성과(완료 · 아카이브) — 청록 견본 + 결과명 + 큰 수 + 단위 + 분석일 */
 .rs{ display:grid; grid-template-columns:10px minmax(0,1fr) auto auto; column-gap:10px; align-items:baseline; padding:7px 0 6px; border-bottom:1px solid var(--line); font-size:14px; letter-spacing:-.01em; transition:background var(--hov) var(--hove), transform var(--hov) var(--hove); }
 .rs:hover{ background:var(--t1); transform:translateX(4px); }

diff --git a/landxi/proto/dataset.html b/landxi/proto/dataset.html
@@ -118,6 +118,7 @@
     <!-- 우 패널 — 선택 타일의 판(지도/그림) + 기본 정보 + 액션. 판은 한 번만 mount 되어 단계를 옮겨도 산다. -->
     <aside id="side" aria-label="선택 항목" data-mode="none">
       <header class="sh">
+        <button type="button" id="side-back" class="n" hidden aria-label="현황판으로">‹ 현황</button>
         <h2 id="side-h" class="d"></h2>
         <span class="sp"></span>
         <span id="side-m" class="mic n"></span>

diff --git a/docs/superpowers/proto/2026-08-26-dataset-parity.md b/docs/superpowers/proto/2026-08-26-dataset-parity.md
@@ -223,3 +223,21 @@ npx playwright test tests/e2e/proto-dataset.spec.mjs    # 17건
 | 메모를 남기는 공간 | `메모 · 이 브라우저에만 저장` textarea 500자 + `n / 500` + `저장 YYYY.MM.DD HH:MM` / `저장 없음` + `localStorage · 서버 저장 아님`. 자산별 `lx_ds_memo_<id>` = `{t, at}`. 입력 300 ms 뒤 저장. **발주 요청 편의 기능이지 서버 기능이 아니다** — 원본에 없고(§9), 서버 저장은 만들지 않았다 | `MEMO_KEY` `MEMO_MAX` · `memoHtml()` `memoGet/Put()` | e2e `아카이브 메모`(자산별 · 글자 수 · 새로고침) |
 
 남은 차이(의도): 1440×900 에서 완료·아카이브 패널은 판 190 + 첫 블록까지 보이고 나머지는 패널 안 스크롤(1920 은 한 화면). 마스터 12.2 는 완료 = 성과 2 + dl 4행, `B5-DataMgmt-Upload` = 업로드 현황판. e2e 18 · 단위 89.
+
+### 11.7 3차 피드백 반영 (2026-08-27) — 우 패널 통일 · 마스터 12.3
+
+클라이언트(원문): *"통일성이 필요하다. 업로드 완료 오른쪽 속성 정보도 데이터 업로드 처럼 현황을 보여줄거면 통일하고.. 개별 카드 클릭하면 개별 카드 속성 정보를 보고. 레이어 발행중 아카이브도 마찬가지다."* + *"쪽당 번호 16은 반응이 안되네?"*
+
+우 패널은 4단계가 **같은 두 상태**다. 선택 없음 = **단계 현황판**(업로드 진행 현황판의 문법 그대로: 헤더 1줄 + 한 줄 = 한 건 38px 헤어라인 + 아래 요약 kv) · 선택 = **그 건의 상세**(단계별 내용은 §11.6 그대로) + 헤더 `‹ 현황`. 현황판 줄을 누르면 그 타일이 선택된다(다른 쪽에 있으면 그 쪽으로 간다). 선택 타일을 다시 누르거나 Esc 를 눌러도 현황판. 이전의 `점선 액자 + 큰 건수` 빈 상태와 아카이브의 `유형 분해 dl` 은 없앴다.
+
+| 단계 | 제목 | 줄(한 건) | 요약 kv | 상세(선택) |
+|---|---|---|---|---|
+| 데이터 업로드 | `진행 현황` | 이름 · 상태어 · 막대 % · 크기 · 잔여 (유휴 운동이 같이 움직인다) | 디스크 · 잔여 · 허용 형식 · 한도 | 그림 리빌 % + dl + 액션(§11.6) |
+| 업로드 완료 | `완료 현황` | 이름 · 형식 · 크기 · 업로드(일자) · 아카이빙 n회 · 위치(○ = imagery.js 도엽 d4 · d5 / —) | 총 용량(바이트 합) · 위치 있음 · 형식별(KPI 분해와 같은 수) | 판 + 성과 / 액자 + 데이터 테이블 + dl + `지도 레이어 발행 ›`(폼) |
+| 레이어 발행중 | `발행 현황` | 이름 · **4눈금** · 상태어(`n/4 단계명` / 실패 = warn `실패 · 짧은 사유`) · 진행률 % · 크기 | 진행 · 실패(warn) · 총 용량 · 단계 4 | 그림 리빌 + 눈금 + dl(실패 사유 원문) + 좌표계 지정/발행 취소/세부 정보 |
+| 아카이브 | `보관 현황` | 이름 · 유형 · 표시/숨김(숨김 = 감쇠) · 발행 v(발행 이력 최신) · 크기 | 표시 · 숨김 · 총 용량 · 유형별 | 판 + 사용 현황 · 성과 · dl · 발행 이력 · 메모 + 5액션 |
+
+- 지시서의 발행중 `소요` 열은 **진행률 %** 로 앉혔다 — 소요 시간 시드가 없고(§7 "지어내지 않는다") `at`(업로드 일시)로 계산하면 기준일보다 뒤인 건(p1 · p2)이 음수가 된다.
+- 위치: `boardHtml()` `boardFoot()` `selectTile()` `backToBoard()` `BOARD_TITLE` · `.board[data-k] .pbh .pb` · `#side-back`. 완료 `업로드 일시` 는 487px 에 안 들어가 일자만(툴팁에 일시).
+- **쪽당 16 (버그)** — 이전엔 타일 높이 *상한*만 두어 8건인 단계·큰 화면에서 8 과 같아 보였다(1920 에서 149 → 131, 12 % 차이). 이제 16 은 타일 높이를 **그리드 ÷ 4 로 고정**하고 폭도 1.63:1 로 따라 준다(1440: 172×105 → 117×72). 건수 < 16 이어도 4×4 자리로 준다. 2560×1440 처럼 4×4 가 8 크기 그대로 들어가는 화면에선 크기가 같은 것이 맞다(눌림 표시는 바뀐다).
+- e2e: 단계 4 × (현황판 줄 = 건수 · 줄 높이 38 · 넘침 0 · 요약 kv dt · 줄 클릭 → 상세 제목/`선택 1 / n`/`‹ 현황` → 현황판 · 타일 재클릭 · 쪽당 16 = 눌림 + 4열 + 높이 = 그리드 ÷ 4 + 폭 < 0.8×). 18 그대로(단계 테스트에 합침). 그림 `b5-01..18`(단계별 현황판 4 + 상세 + 1920 현황판).
